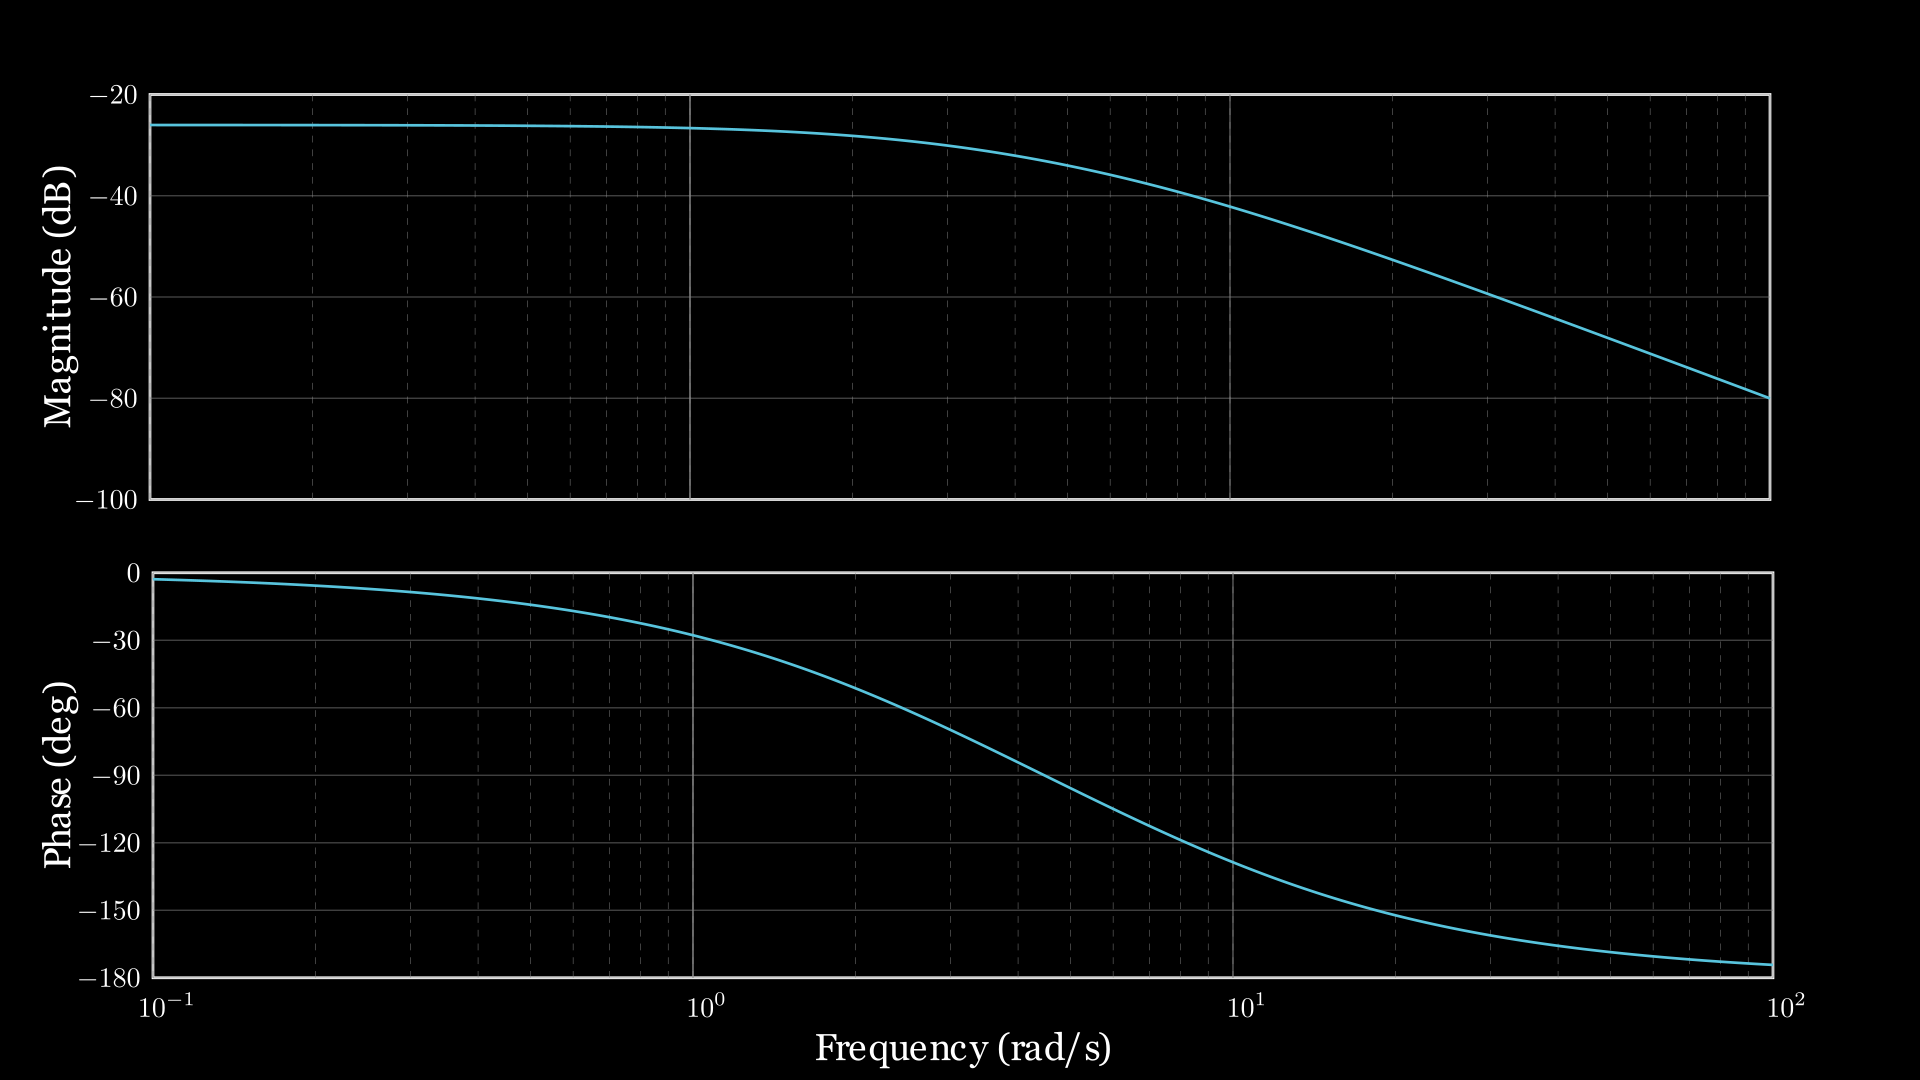
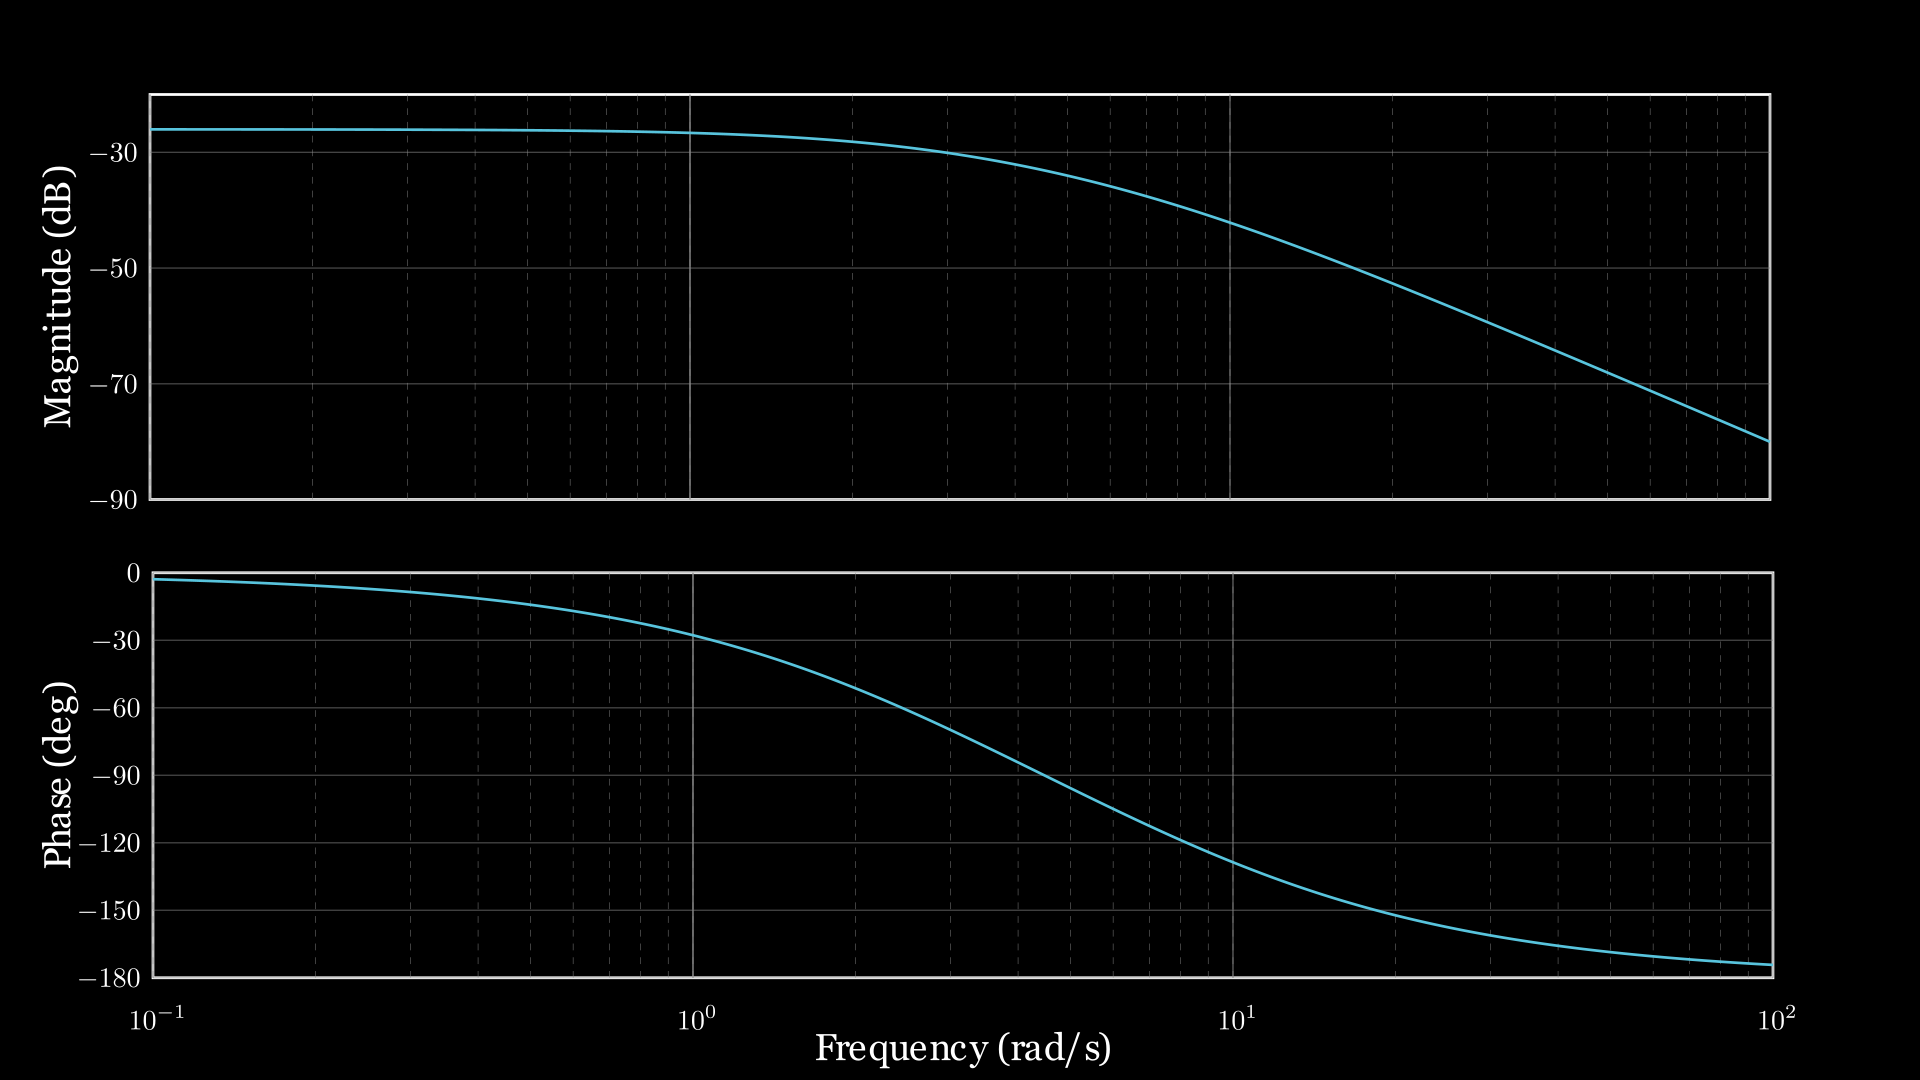
freq_label

diff --git a/controltheorylib/control.py b/controltheorylib/control.py
@@ -1153,23 +1153,26 @@ class BodePlot(VGroup):
             
             mag_group.shift(1.8*UP)
             phase_group.next_to(mag_group, DOWN, buff=0.4).align_to(mag_group, LEFT)
-        
-            components_to_add.extend([mag_group, phase_group])
+            self.freq_labels.next_to(self.phase_axes, DOWN, buff=0.2)
+            self.freq_xlabel.next_to(self.phase_axes,DOWN,buff=0.4)
+            components_to_add.extend([mag_group, phase_group, self.freq_labels, self.freq_xlabel])
         elif self._show_magnitude:
             # Only magnitude - center it and move frequency labels
             self.mag_axes.y_length=5
             mag_group = VGroup(self.mag_axes, self.mag_components, self.mag_plot)
             mag_group.move_to(ORIGIN)
             # Move frequency labels to bottom of magnitude plot
-            for label in self.freq_labels:
-                label.move_to([label.get_x(), self.mag_axes.get_bottom()[1]-0.2, 0])
-            components_to_add.append(mag_group)
+            self.freq_labels.next_to(self.mag_axes, DOWN, buff=0.2)
+            self.freq_xlabel.next_to(self.mag_axes,DOWN,buff=0.4)
+            components_to_add.append([mag_group, self.freq_labels, self.freq_xlabel])
 
         elif self._show_phase:
             # Only phase - center it
             phase_group = VGroup(self.phase_axes, self.phase_components, self.phase_plot)
             phase_group.move_to(ORIGIN)
-            components_to_add.append(phase_group)
+            self.freq_labels.next_to(self.phase_axes, DOWN, buff=0.2)
+            self.freq_xlabel.next_to(self.phase_axes,DOWN,buff=0.4)
+            components_to_add.append([phase_group, self.freq_labels, self.freq_xlabel])
             # Handle title
 
         if self._title:
@@ -1312,15 +1315,15 @@ class BodePlot(VGroup):
         phase_max = min(360, np.ceil(np.max(phase_focus) / 45)*45)
 
         # Step 4: Determine magnitude range from same range
-        mag_padding = 5  # dB padding
-        mag_min = np.floor(np.min(mag_focus) / 5) * 5 - mag_padding
-        mag_max = np.ceil(np.max(mag_focus) / 5) * 5 + mag_padding
+        mag_padding = 0  # dB padding
+        mag_min = np.floor(np.min(mag_focus)/5)*5 - mag_padding
+        mag_max = np.ceil(np.max(mag_focus)/5)*5 + mag_padding
         
         mag_span = mag_max - mag_min
         if mag_span <= 30:
         # Round to nearest 5
-            mag_min = np.floor(mag_min / 5) * 5
-            mag_max = np.ceil(mag_max / 5) * 5
+            mag_min = np.floor(mag_min/5)*5
+            mag_max = np.ceil(mag_max/5)*5
         elif mag_span <= 60:
         # Round to nearest 10
             mag_min = np.floor(mag_min / 10) * 10
@@ -1436,7 +1439,7 @@ class BodePlot(VGroup):
                                         self.phase_yrange[1]-self.phase_yrange[0])
         phase_grid_lines = self.create_grid_lines(self.phase_axes, self.phase_yrange)
         phase_ylabel = Text("Phase (deg)", font_size=20).next_to(phase_box, LEFT, buff=0).rotate(PI/2)
-        freq_xlabel = Text("Frequency (rad/s)", font_size=20).next_to(phase_box, DOWN, buff=0.4)
+        self.freq_xlabel = Text("Frequency (rad/s)", font_size=20).next_to(phase_box, DOWN, buff=0.4)
         
         # Add vertical grid lines for phase plot
         phase_vert_grid = self.create_vertical_grid(self.phase_axes)
@@ -1446,7 +1449,7 @@ class BodePlot(VGroup):
         
         #Phase compmonents
         self.phase_components = VGroup(phase_box, phase_y_labels, phase_grid_lines, 
-                                  phase_ylabel, freq_xlabel, phase_vert_grid, self.freq_labels)
+                                  phase_ylabel, phase_vert_grid)
         
     def create_vertical_grid(self, axes):
         """Create vertical grid lines for frequency decades."""
